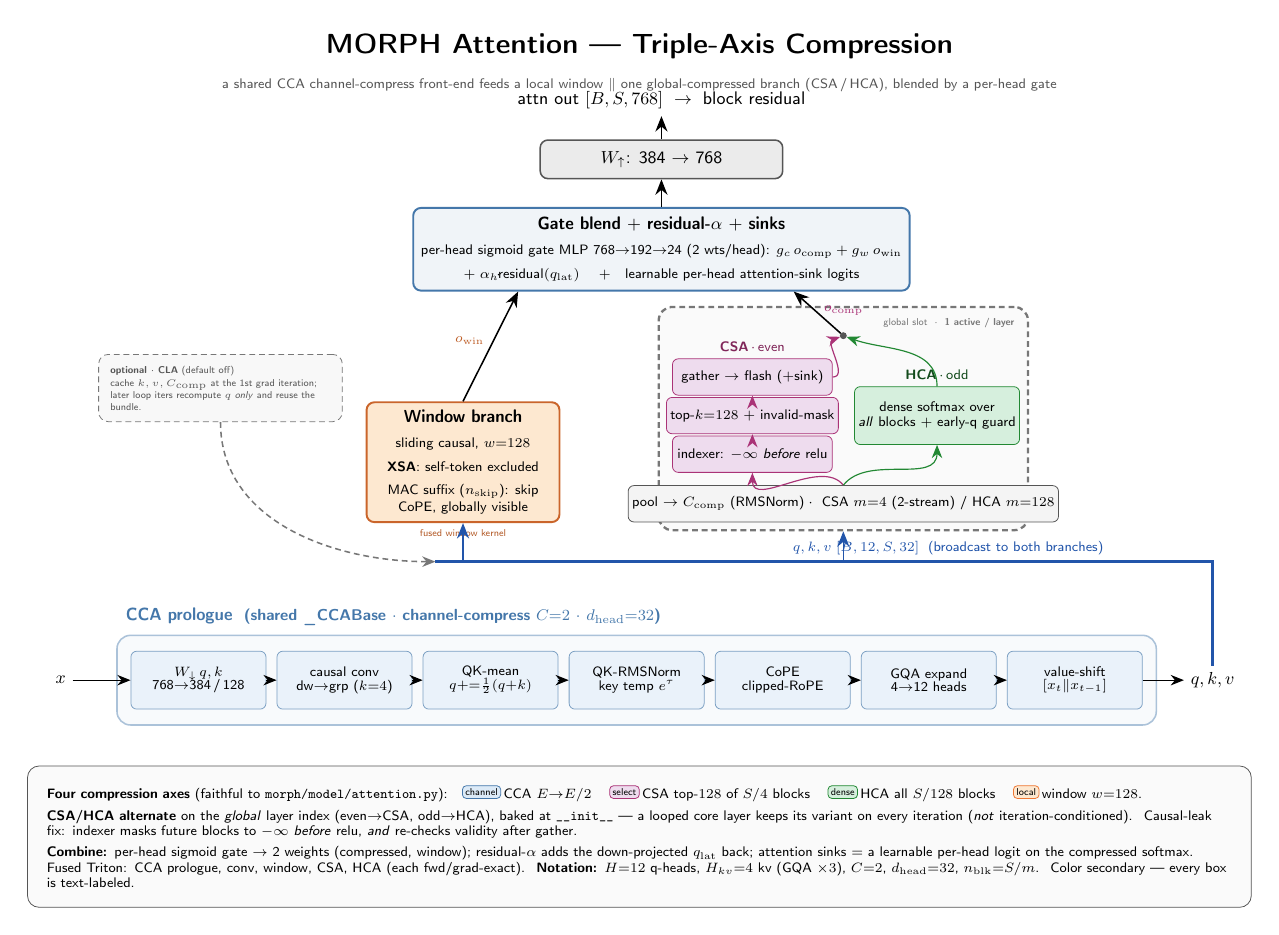
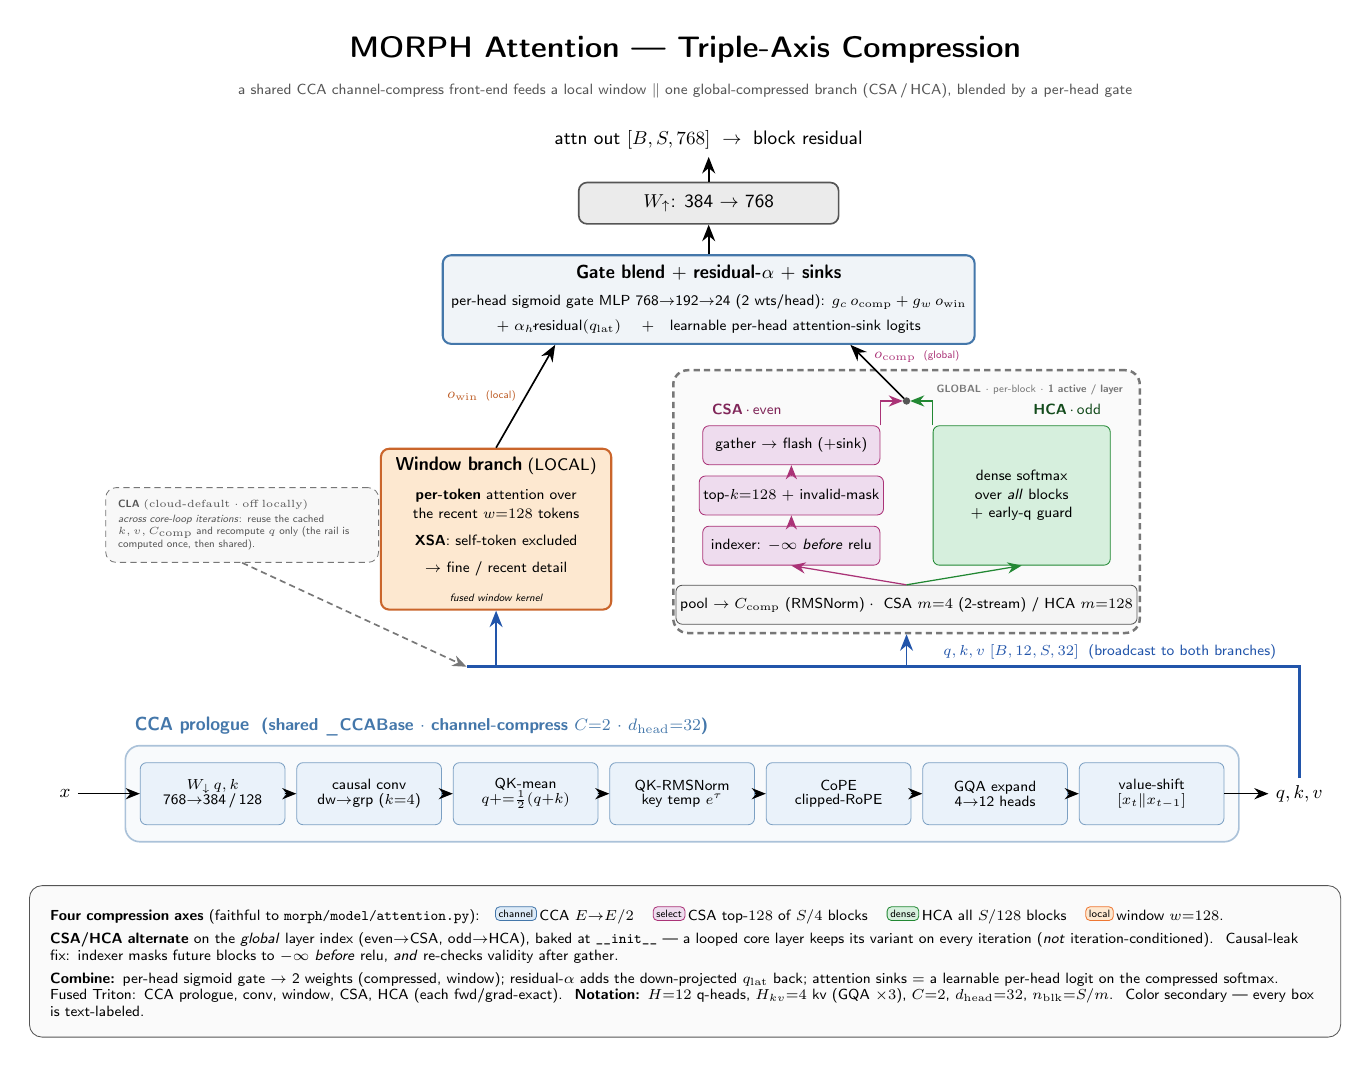
docs

Changed region(s): [[0.0305, 0.031, 0.9758, 0.9925], [0.0915, 0.3722, 0.2439, 0.5583]]

diff --git a/docs/figures/morph_attention.tex b/docs/figures/morph_attention.tex
@@ -8,13 +8,18 @@
 %   - _CCABase shared prologue: W_down_q 768->384, W_down_k 768->128 (C=2, d_head=32);
 %     depthwise+head-grouped causal conv (k=4); QK-mean couple; QK-RMSNorm; key temp
 %     exp() (per kv head); CoPE (clipped-RoPE); GQA expand 4->12; value-shift.
-%   - Window branch (always): sliding causal, w=128, XSA (self excluded), fused.
-%   - Global-compressed slot resolved at __init__ by GLOBAL layer_idx parity:
+%   - Window branch = LOCAL, per-token (always): sliding causal, w=128, XSA (self
+%     excluded), fused. NOTE: MAC suffix (n_skip_rope) is DORMANT API leftover from
+%     TitanMAC -- transformer.py never sets n_skip_rope (defaults 0), so it is OFF in MORPH.
+%   - Global-compressed slot = GLOBAL, per-block; resolved at __init__ by GLOBAL layer_idx parity:
 %       even -> CSA: two-stream pool m=4 -> Lightning Indexer (-inf before relu)
 %               -> top_k=128 select -> on-the-fly gather + invalid-mask -> flash.
 %       odd  -> HCA: single-stream pool m=128 -> DENSE attn over all blocks + early-q guard.
+%     Per-head sigmoid gate blends the LOCAL (per-token) and GLOBAL (per-block) branches.
 %   - Combine: per-head sigmoid gate (2 wts/head) blends; + residual-alpha (q_lat);
-%     + learnable per-head sinks; W_up 384->768.  CLA = dashed optional (default off).
+%     + learnable per-head sinks; W_up 384->768.
+%   - CLA (cla_kv path): cross-iter KV reuse. base/local = OFF (slight ppl regression at
+%     d=768); cloud.yaml = ON (net-positive at d=2048). Drawn as a dashed loop-opt overlay.
 % Compile: pdflatex morph_attention.tex
 
 \documentclass[border=14pt]{standalone}
@@ -89,77 +94,82 @@
 % =====================================================================
 \def\busy{2.45}
 \draw[rail] (qkv.north) |- (-3.7,\busy);
-\node[sub, text=ccaC, anchor=south] at (5.6,\busy) {$q,k,v\;[B,12,S,32]$ \;(broadcast to both branches)};
+% label starts right of the slot riser (x=3.75) so the line never cuts through the text
+\node[sub, text=ccaC, anchor=south west] at (4.25,\busy) {$q,k,v\;[B,12,S,32]$ \;(broadcast to both branches)};
 
 % =====================================================================
 % BAND 2 (middle) — two attention branches
 % =====================================================================
 % LEFT: window branch
 \node[Bx, fill=fOrange, draw=cbOrange!85!black, line width=1pt,
-      minimum width=3.5cm, minimum height=2.0cm, anchor=south] (win) at (-3.2,3.15) {
-  \textbf{Window branch}\\[2pt]
-  {\scriptsize sliding causal, $w{=}128$}\\[1pt]
-  {\scriptsize \textbf{XSA}: self-token excluded}\\[1pt]
-  {\scriptsize MAC suffix ($n_\mathrm{skip}$): skip}\\[-2pt]
-  {\scriptsize CoPE, globally visible}};
-\node[tny, text=cbOrange!75!black, anchor=north] at (win.south) {fused window kernel};
+      minimum width=3.9cm, minimum height=2.45cm, anchor=south] (win) at (-3.2,3.4) {
+  \textbf{Window branch}\;{\footnotesize(LOCAL)}\\[3pt]
+  {\scriptsize \textbf{per-token} attention over}\\[-2pt]
+  {\scriptsize the recent $w{=}128$ tokens}\\[2pt]
+  {\scriptsize \textbf{XSA}: self-token excluded}\\[2pt]
+  {\scriptsize $\rightarrow$ fine / recent detail}\\[3pt]
+  {\tiny\itshape fused window kernel}};
 
-% RIGHT: global-compressed slot (the alternation container)
+% RIGHT: global-compressed slot (the alternation container) — roomy
 \node[draw=cbGray, densely dashed, very thick, rounded corners=7pt, fill=cbGray!4,
-      minimum width=6.7cm, minimum height=4.05cm, anchor=south] (slot) at (3.7,3.0) {};
-\node[tny, text=cbGray, anchor=north east] at ($(slot.north east)+(-0.14,-0.1)$)
-  {global slot \;$\cdot$\; \textbf{1 active / layer}};
+      minimum width=7.9cm, minimum height=4.45cm, anchor=south] (slot) at (3.75,3.0) {};
+\node[tny, text=cbGray, anchor=north east] at ($(slot.north east)+(-0.18,-0.14)$)
+  {\textbf{GLOBAL} $\cdot$ per-block $\cdot$ \textbf{1 active / layer}};
 % shared pooler at the bottom
-\node[gs, fill=fGray!55, minimum width=6.0cm] (pool) at (3.7,3.5) {
+\node[gs, fill=fGray!55, minimum width=6.9cm] (pool) at (3.75,3.5) {
   pool $\to C_\mathrm{comp}$ (RMSNorm)\;$\cdot$\; CSA $m{=}4$ (2-stream) / HCA $m{=}128$};
-% CSA column (left, EVEN layers) — purple
-\node[gs, fill=fPurple, draw=cbPurple, minimum width=2.9cm] (csa1) at (2.05,4.40) {indexer: $-\infty$ \emph{before} relu};
-\node[gs, fill=fPurple, draw=cbPurple, minimum width=2.9cm] (csa2) at (2.05,5.10) {top-$k{=}128$ $+$ invalid-mask};
-\node[gs, fill=fPurple, draw=cbPurple, minimum width=2.9cm] (csa3) at (2.05,5.80) {gather $\to$ flash ($+$sink)};
-\node[sub, text=cbPurple!75!black, anchor=south] at (csa3.north) {\textbf{CSA}\,$\cdot$\,even};
-% HCA column (right, ODD layers) — green
-\node[gs, fill=fTeal, draw=cbTeal, minimum width=2.9cm, minimum height=1.05cm] (hca) at (5.4,5.10)
-  {dense softmax over\\ \emph{all} blocks $+$ early-q guard};
-\node[sub, text=cbTeal!55!black, anchor=south] at (hca.north) {\textbf{HCA}\,$\cdot$\,odd};
-% pool feeds both columns; csa flows up; both merge to ONE o_comp exit (only one runs/layer)
-\draw[As, cbPurple] (pool.north) to[out=128,in=-90] (csa1.south);
-\draw[As, cbTeal]   (pool.north) to[out=52,in=-90]  (hca.south);
+% CSA column (left, EVEN layers) — purple; generous vertical pitch
+\node[gs, fill=fPurple, draw=cbPurple, minimum width=3.0cm] (csa1) at (1.80,4.50) {indexer: $-\infty$ \emph{before} relu};
+\node[gs, fill=fPurple, draw=cbPurple, minimum width=3.0cm] (csa2) at (1.80,5.35) {top-$k{=}128$ $+$ invalid-mask};
+\node[gs, fill=fPurple, draw=cbPurple, minimum width=3.0cm] (csa3) at (1.80,6.20) {gather $\to$ flash ($+$sink)};
+% HCA box (right, ODD layers) — green, vertically aligned to the CSA column
+\node[gs, fill=fTeal, draw=cbTeal, minimum width=3.0cm, minimum height=2.36cm] (hca) at (5.70,5.35)
+  {dense softmax\\[1pt] over \emph{all} blocks\\[1pt] $+$ early-q guard};
+% column header tags (outer corners, off the central merge risers)
+\node[sub, text=cbPurple!75!black, anchor=south west] at ($(csa3.north west)+(0.04,0.06)$) {\textbf{CSA}\,$\cdot$\,even};
+\node[sub, text=cbTeal!55!black, anchor=south east] at ($(hca.north east)+(-0.04,0.06)$) {\textbf{HCA}\,$\cdot$\,odd};
+% pool forks to both paths
+\draw[As, cbPurple] (pool.north) -- (csa1.south);
+\draw[As, cbTeal]   (pool.north) -- (hca.south);
+% CSA path flows up
 \draw[As, cbPurple] (csa1) -- (csa2);
 \draw[As, cbPurple] (csa2) -- (csa3);
-\node[circle, draw=bdr, fill=bdr, inner sep=1.1pt] (mrg) at (3.7,6.55) {};
-\draw[As, cbPurple] (csa3.east) to[out=0,in=200] (mrg);
-\draw[As, cbTeal]   (hca.north) to[out=90,in=-20] (mrg);
+% both paths merge into ONE o_comp exit (only one runs/layer). Risers leave from the
+% INNER top corners into the central gap, so the outer corners stay free for the labels.
+\node[circle, draw=bdr, fill=bdr, inner sep=1.1pt] (mrg) at (3.75,6.95) {};
+\draw[As, cbPurple] (csa3.north east) |- (mrg);
+\draw[As, cbTeal]   (hca.north west)  |- (mrg);
 
 % rail risers into the two branches
 \draw[A, ccaC] (-3.2,\busy) -- (win.south);
-\draw[A, ccaC] (3.7,\busy) -- (slot.south);
+\draw[A, ccaC] (3.75,\busy) -- (slot.south);
 
 % =====================================================================
 % BAND 3 (top) — combine + up-project + output
 % =====================================================================
 \node[Bx, fill=cbBlue!8, draw=cbBlue, line width=1pt, minimum width=8.4cm,
-      minimum height=1.5cm, anchor=south] (comb) at (0.4,7.35) {
+      minimum height=1.5cm, anchor=south] (comb) at (0.4,7.9) {
   \textbf{Gate blend $+$ residual-$\alpha$ $+$ sinks}\\[2pt]
   {\scriptsize per-head sigmoid gate MLP 768$\to$192$\to$24 (2 wts/head): $g_c\,o_\mathrm{comp}+g_w\,o_\mathrm{win}$}\\[1pt]
   {\scriptsize $+\;\alpha_h\!\cdot\!$residual$(q_\mathrm{lat})$ \quad$+$\quad learnable per-head attention-sink logits}};
 \draw[A] (win.north) -- ([xshift=-2.6cm]comb.south)
-  node[pos=0.55, left=1pt, sub, text=cbOrange!80!black]{$o_\mathrm{win}$};
+  node[pos=0.5, left=1pt, sub, text=cbOrange!80!black]{$o_\mathrm{win}$ \,{\tiny(local)}};
 \draw[A] (mrg) -- ([xshift=2.4cm]comb.south)
-  node[pos=0.55, right=1pt, sub, text=cbPurple]{$o_\mathrm{comp}$};
+  node[pos=0.78, right=2pt, sub, text=cbPurple]{$o_\mathrm{comp}$ \,{\tiny(global)}};
 \node[Bx, fill=fGray, minimum width=4.4cm, minimum height=0.7cm, above=0.5cm of comb] (wup)
   {$W_{\uparrow}$: 384 $\to$ 768};
 \draw[A] (comb) -- (wup);
 \node[io, above=0.42cm of wup] (out) {attn out $[B,S,768]$ \;$\to$\; block residual};
 \draw[A] (wup) -- (out);
 
-% ── CLA optional overlay (default off) — upper-left dead space ──
+% ── CLA loop-level optimization (cloud-default; off locally) — upper-left dead space ──
 \node[draw=cbGray, densely dashed, rounded corners=5pt, fill=cbGray!5,
-      text width=4.0cm, font=\tiny\sffamily, align=left, inner sep=6pt, text=bdr]
-      at (-7.6,5.6) (cla) {%
-  \textbf{optional $\cdot$ CLA} (default off)\\[1pt]
-  cache $k,v,C_\mathrm{comp}$ at the 1st grad iteration; later loop iters recompute
-  \emph{$q$ only} and reuse the bundle.};
-\draw[Ad, cbGray] (cla.south) to[out=-90,in=180] (-3.7,\busy);
+      text width=4.2cm, font=\tiny\sffamily, align=left, inner sep=6pt, text=bdr]
+      at (-7.5,4.85) (cla) {%
+  \textbf{CLA} {\normalfont(cloud-default $\cdot$ off locally)}\\[1pt]
+  \emph{across core-loop iterations}: reuse the cached $k,v,C_\mathrm{comp}$ and
+  recompute $q$ only (the rail is computed once, then shared).};
+\draw[Ad, cbGray] (cla.south) -- (-3.7,\busy);
 
 % =====================================================================
 % BOTTOM — facts / notation panel
@@ -180,7 +190,7 @@
   \;\textbf{Notation:} $H{=}12$ q-heads, $H_{kv}{=}4$ kv (GQA $\times3$), $C{=}2$, $d_\mathrm{head}{=}32$, $n_\mathrm{blk}{=}S/m$. \;Color secondary — every box is text-labeled.};
 
 % ── Title ────────────────────────────────────────────────────────────
-\node[font=\Large\sffamily\bfseries, anchor=south] (ttl) at (0,11.45)
+\node[font=\Large\sffamily\bfseries, anchor=south] (ttl) at (0,12.55)
   {MORPH Attention --- Triple-Axis Compression};
 \node[sub, text=bdr, anchor=north, below=0.1cm of ttl]
   {a shared CCA channel-compress front-end feeds a local window $\Vert$ one global-compressed branch (CSA\,/\,HCA), blended by a per-head gate};

diff --git a/docs/figures/morph_deploy_stack.tex b/docs/figures/morph_deploy_stack.tex
@@ -148,7 +148,7 @@
 % RIGHT PANEL — train-time / inference-time overlays
 % =====================================================================
 
-\node[panel=bdr, anchor=west, text width=4.5cm] at ($(core.east)+(3.6,0.55)$) (opt) {
+\node[panel=bdr, anchor=west, text width=4.5cm] at ($(core.east)+(3.6,0)$) (opt) {
   \textbf{\textcolor{bdr}{Optimizer (training)}}\\[2pt]
   8-bit AdamW (bitsandbytes)\\
   {\tiny state $m,v \to$ uint8; embed state forced fp32}};
@@ -163,7 +163,7 @@
 \node[draw=bdr, rounded corners=6pt, fill=fGray!25, inner sep=9pt,
       align=left, font=\scriptsize\sffamily, text width=14.8cm,
       below=1.0cm of inp, anchor=north] (leg) {
-  \textbf{Precision legend} \;(text label is authoritative; color is secondary):\quad
+  \textbf{Precision legend} \;(text label is authoritative; color is secondary):\\[2pt]
   \tikz\node[badge=pInt6, inner sep=2pt]{int6};~embeddings \;\;
   \tikz\node[badge=pTern, inner sep=2pt]{ternary};~backbone MLP \;\;
   \tikz\node[badge=pBf16, inner sep=2pt]{bf16};~attn / norms / Lorentz / HC / GLA};